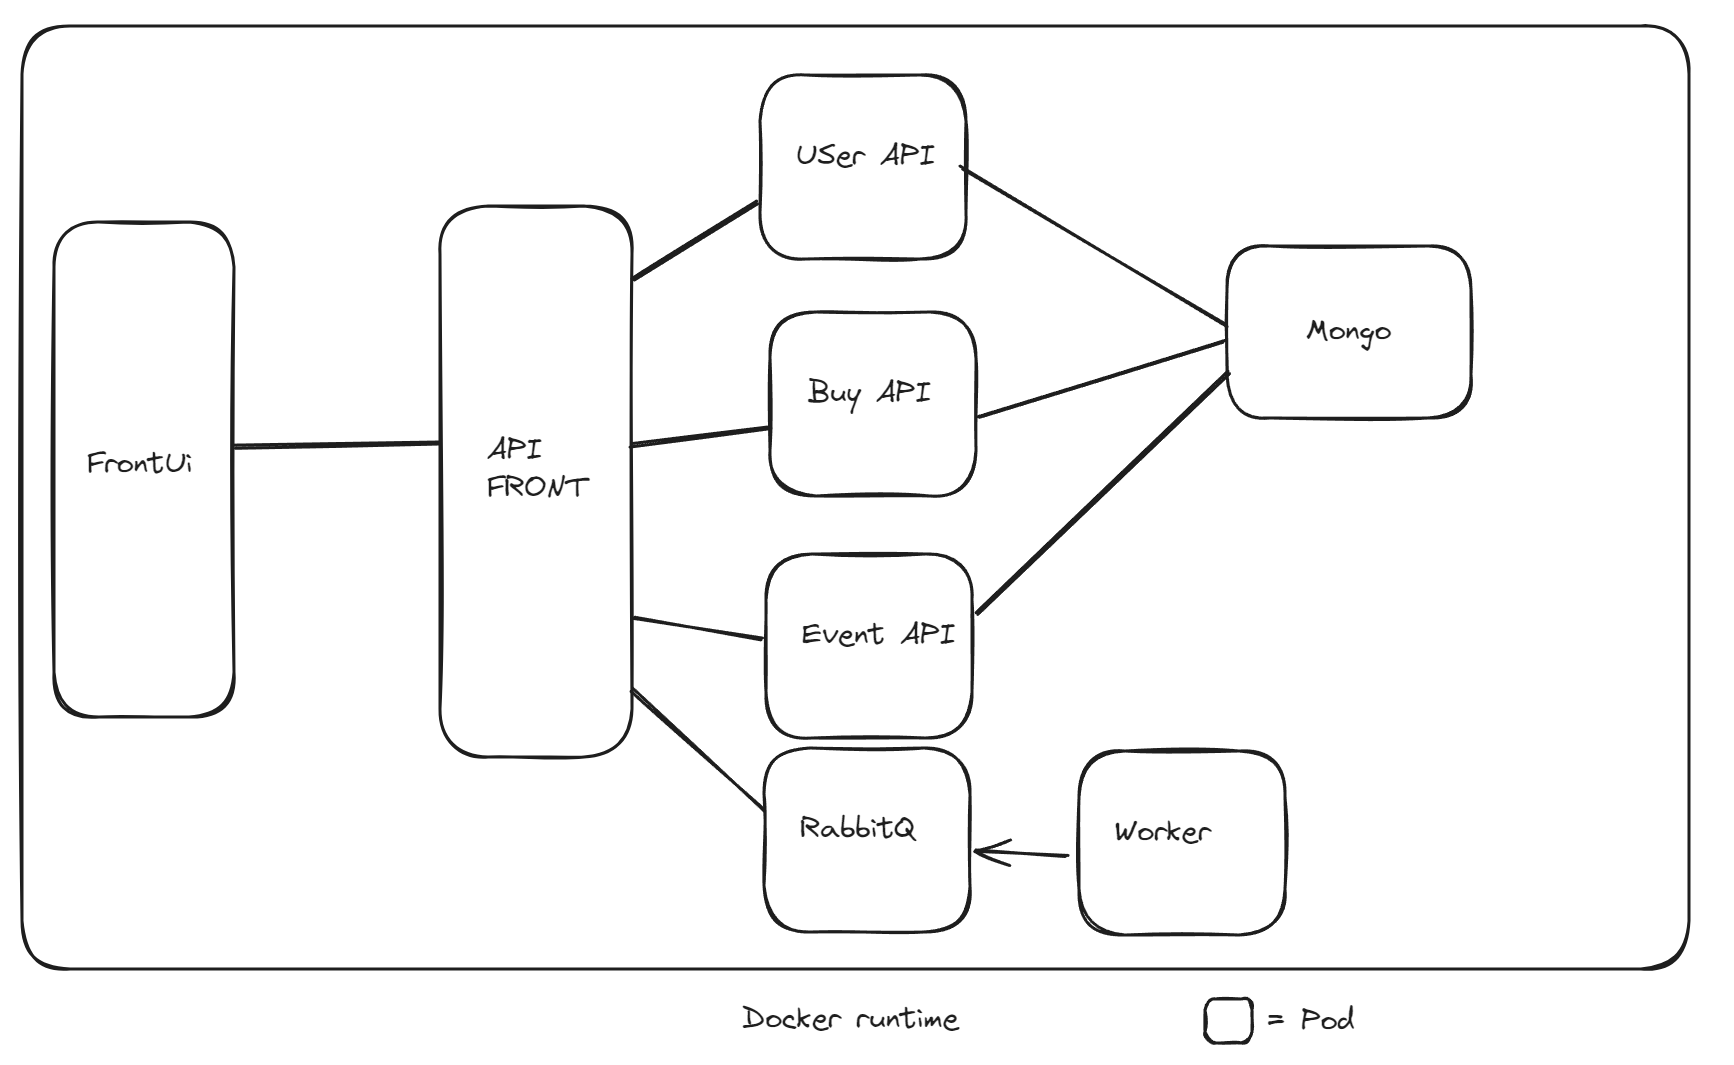
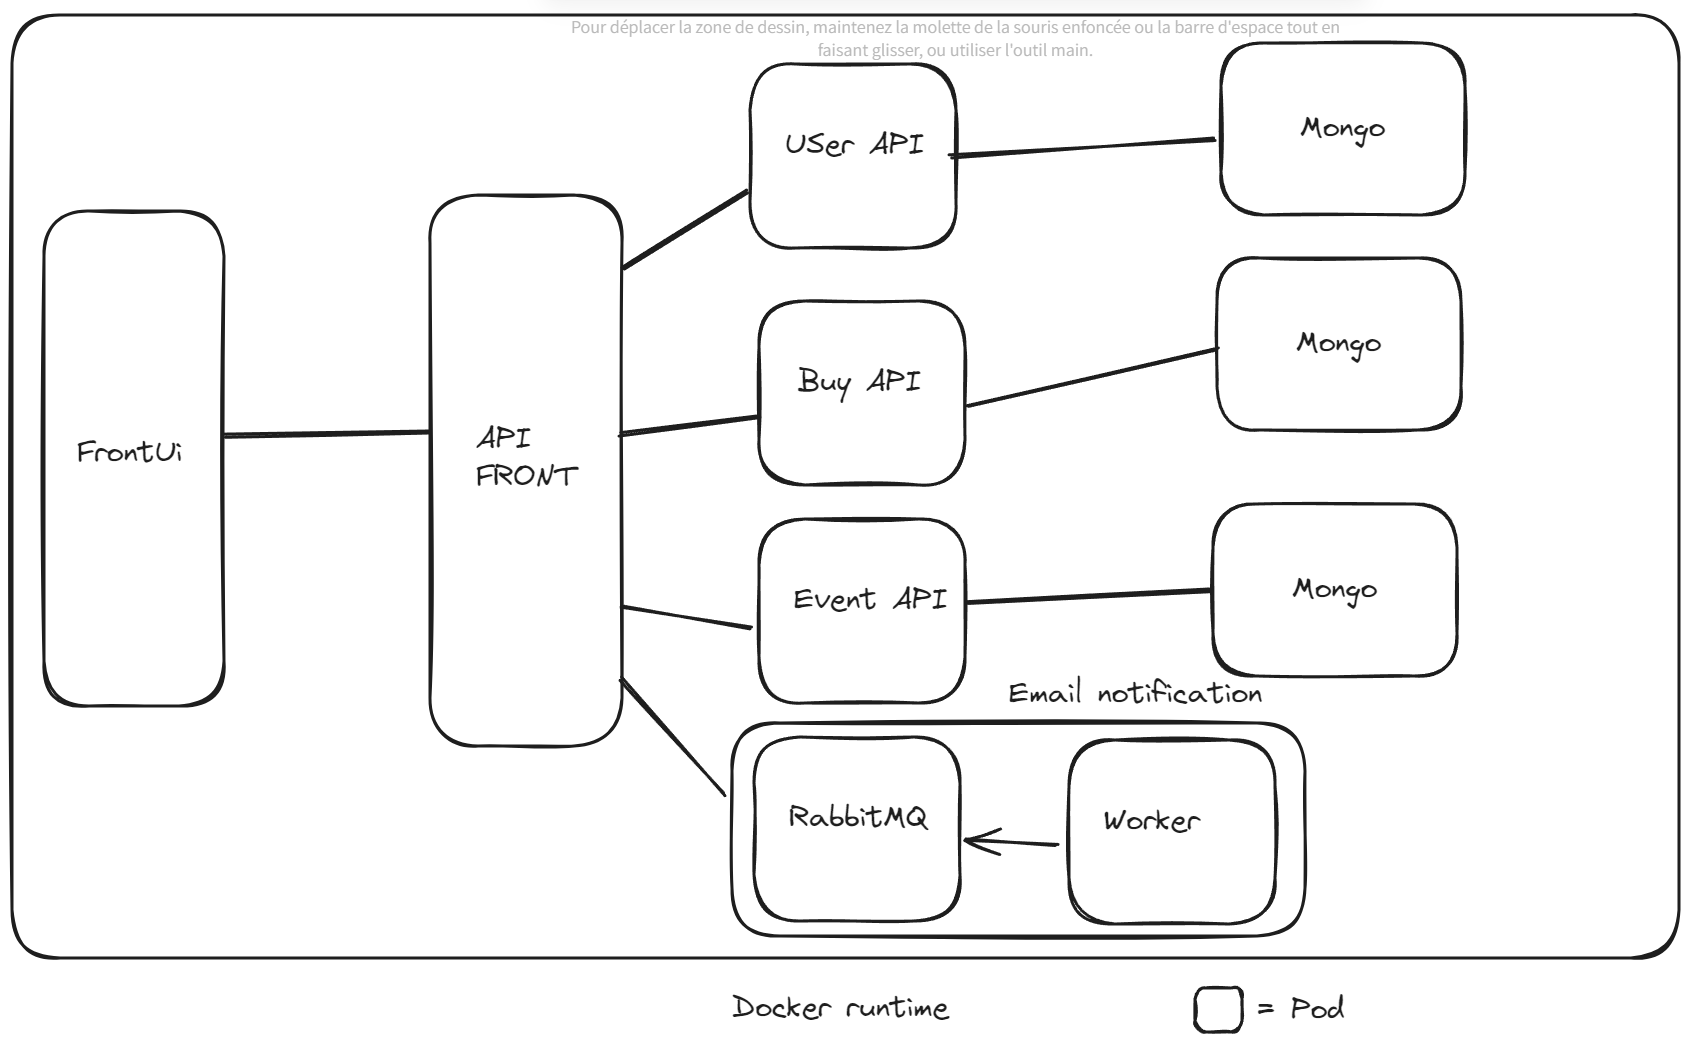
fix bug add mongo for each service and delete port expose

diff --git a/users/models/userModel.js b/users/models/userModel.js
@@ -2,30 +2,39 @@ const mongoose = require("mongoose");
 const bcrypt = require("bcrypt");
 const { Schema } = mongoose;
 
-const UserSchema = new Schema({
-  email: {
-    type: String,
-    required: true,
-    unique: true,
+const UserSchema = new Schema(
+  {
+    email: {
+      type: String,
+      required: true,
+      unique: true,
+    },
+    firstname: {
+      type: String,
+      required: true,
+    },
+    lastname: {
+      type: String,
+      required: true,
+    },
+    password: {
+      type: String,
+      required: true,
+    },
+    role: {
+      type: String,
+      required: true,
+      default: "user",
+    },
   },
-  firstname: {
-    type: String,
-    required: true,
-  },
-  lastname: {
-    type: String,
-    required: true,
-  },
-  password: {
-    type: String,
-    required: true,
-  },
-  role: {
-    type: String,
-    required: true,
-    default: "user",
-  },
-});
+  {
+    toJSON: {
+      transform: function (doc, ret) {
+        delete ret.password;
+      },
+    },
+  }
+);
 
 UserSchema.pre("save", async function (next) {
   const user = this;

diff --git a/frontapi/controllers/EventControllers.js b/frontapi/controllers/EventControllers.js
@@ -6,11 +6,11 @@ exports.index = async (req, res) => {
   res.setHeader("Content-Type", "application/json; charset=utf-8");
   try {
     const response = await fetch(
-      `${URLEVENT}`, //+
-      //   new URLSearchParams({
-      //     perPage: parseInt(req.query.perPage) || 10,
-      //     page: parseInt(req.query.page) || 1,
-      //   })
+      `${URLEVENT}?` +
+        new URLSearchParams({
+          perPage: parseInt(req.query.perPage) || 10,
+          page: parseInt(req.query.page) || 1,
+        }),
       {
         method: "GET",
         headers: { Accept: "application/json" },
@@ -23,7 +23,7 @@ exports.index = async (req, res) => {
 
     const jsonData = await response.json();
 
-    res.status(200).send({ jsonData });
+    res.status(200).send(jsonData);
   } catch (err) {
     res.status(500).send({
       status: "Error",

diff --git a/frontapi/controllers/userControllers.js b/frontapi/controllers/userControllers.js
@@ -7,11 +7,11 @@ const URLUSER = process.env.URLUSER;
 exports.index = async (req, res) => {
   try {
     const response = await fetch(
-      `${URLUSER}`, //+
-      // new URLSearchParams({
-      //   perPage: parseInt(req.query.perPage) || 10,
-      //   page: parseInt(req.query.page) || 1,
-      // })
+      `${URLUSER}?` +
+        new URLSearchParams({
+          perPage: parseInt(req.query.perPage) || 10,
+          page: parseInt(req.query.page) || 1,
+        }),
       {
         method: "GET",
         headers: { Accept: "application/json" },

diff --git a/frontapi/controllers/buyControllers.js b/frontapi/controllers/buyControllers.js
@@ -7,11 +7,11 @@ const RABBIT = process.env.RABBIT;
 exports.index = async (req, res) => {
   try {
     const response = await fetch(
-      `${URLBUY}`, //+
-      // new URLSearchParams({
-      //   perPage: parseInt(req.query.perPage) || 10,
-      //   page: parseInt(req.query.page) || 1,
-      // })
+      `${URLBUY}?` +
+        new URLSearchParams({
+          perPage: parseInt(req.query.perPage) || 10,
+          page: parseInt(req.query.page) || 1,
+        }),
       {
         method: "GET",
         headers: { Accept: "application/json" },
